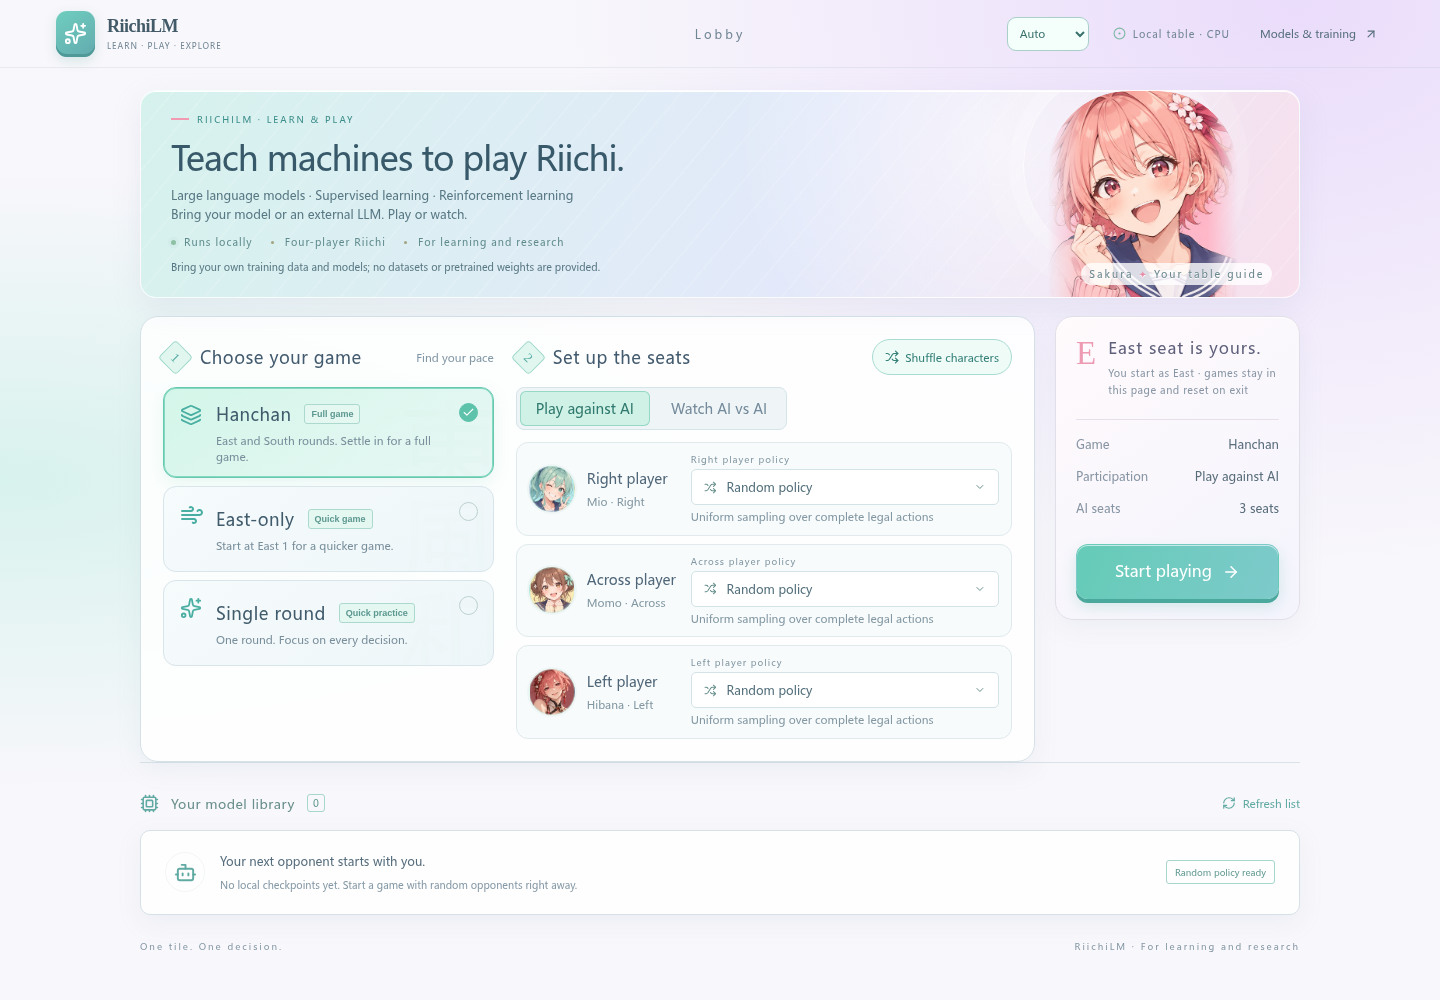
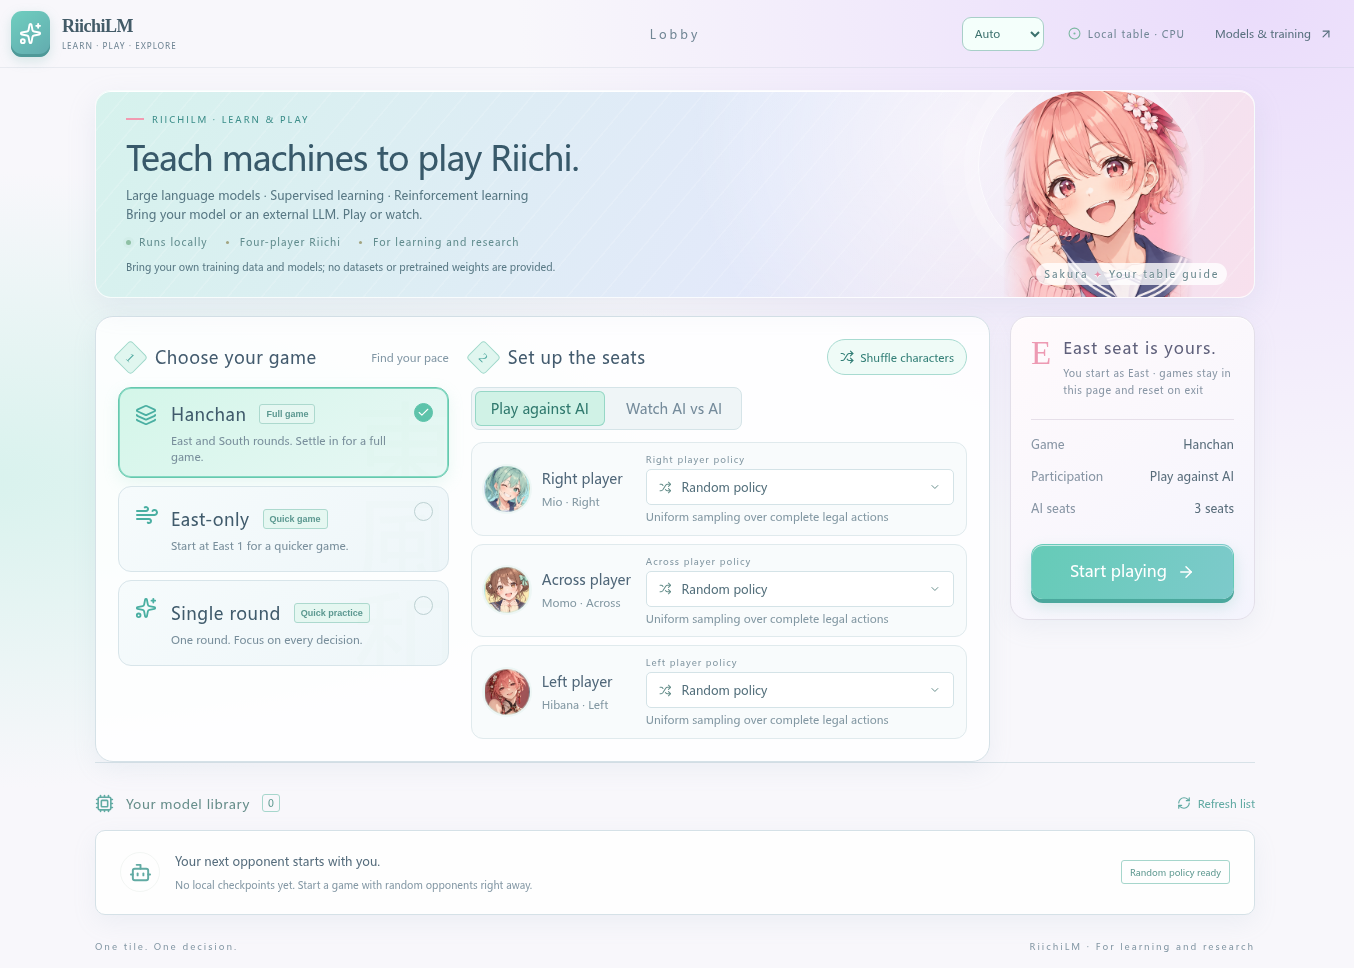
Sync reviewed RiichiLM research code

diff --git a/web/src/App.tsx b/web/src/App.tsx
@@ -265,9 +265,11 @@ export function App() {
           <header className="topbar">
             <a
               className="brand"
-              href="#"
-              onClick={(e) => e.preventDefault()}
-              aria-label="RiichiLM"
+              href="https://www.riichilm.top"
+              target="_blank"
+              rel="noopener noreferrer"
+              aria-label={t("RiichiLM 官网")}
+              title={t("RiichiLM 官网")}
             >
               <span className="brand-symbol" aria-hidden="true"><Sparkles size={23} /></span>
               <span>

diff --git a/web/src/messages.ts b/web/src/messages.ts
@@ -1,5 +1,6 @@
 /** English and Japanese translations; Chinese source messages are the fallback. */
 export const messages: Record<string, readonly [string, string]> = {
+  "RiichiLM 官网": ["RiichiLM official website", "RiichiLM 公式サイト"],
   "学习 · 对局 · 探索": ["LEARN · PLAY · EXPLORE", "学ぶ · 打つ · 探る"],
   "RIICHILM · 学习与对局": ["RIICHILM · LEARN & PLAY", "RIICHILM · 学習と対局"],
   "感谢对局": ["THANK YOU FOR PLAYING", "対局ありがとうございました"],

diff --git a/web/src/Setup.tsx b/web/src/Setup.tsx
@@ -361,7 +361,11 @@ export function Setup({
       </section>
       <footer className="page-footer">
         <span>{t("一张牌，一次选择。")}</span>
-        <span>RiichiLM · {t("仅供学习与研究")}</span>
+        <span>
+          <a href="https://www.riichilm.top" target="_blank" rel="noopener noreferrer" aria-label={t("RiichiLM 官网")}>
+            www.riichilm.top
+          </a> · {t("仅供学习与研究")}
+        </span>
       </footer>
     </>
   );

diff --git a/web/src/style.css b/web/src/style.css
@@ -657,6 +657,8 @@ button svg {
 }
 .page-footer {
   display: flex;
+  flex-wrap: wrap;
+  gap: 10px;
   align-items: center;
   justify-content: space-between;
   padding: 25px 0 30px;
@@ -664,6 +666,7 @@ button svg {
   color: #587a80;
   letter-spacing: 2px;
 }
+.page-footer a { color: inherit; text-underline-offset: 3px; }
 .search {
   display: flex;
   align-items: center;

diff --git a/docs/i18n/ja/README.md b/docs/i18n/ja/README.md
@@ -4,6 +4,8 @@
 
 # RiichiLM
 
+[公式サイト · www.riichilm.top](https://www.riichilm.top)
+
 **大規模言語モデルと強化学習で、機械にリーチ麻雀を教える**
 
 自分のデータで麻雀の方策を学習し、自己対戦で改良し、実際のルールで動く卓で判断を観察する。RiichiLM は、Qwen3 ベースの系列モデル、Rust ルールエンジン、強化学習、イラスト付きブラウザー対局を一つの研究コードベースにつなぎます。

diff --git a/README.md b/README.md
@@ -4,6 +4,8 @@
 
 # RiichiLM
 
+[Official website · www.riichilm.top](https://www.riichilm.top)
+
 **Teaching Machines to Play Riichi Mahjong with LLMs and RL**
 
 Build a Mahjong policy, train it on your own data, improve it through self-play, and watch its decisions at a real table. RiichiLM connects Qwen3-based sequence models, a Rust rules engine, reinforcement learning, and an illustrated browser arena in one research codebase.

diff --git a/docs/i18n/zh-CN/README.md b/docs/i18n/zh-CN/README.md
@@ -4,6 +4,8 @@
 
 # RiichiLM
 
+[官方网站 · www.riichilm.top](https://www.riichilm.top)
+
 **通过大语言模型与强化学习，让机器学打立直麻将**
 
 用自己的数据训练麻将策略，通过自我对弈改进模型，再到真实规则的牌桌上观察它的选择。RiichiLM 将 Qwen3 序列模型、Rust 规则引擎、强化学习与插画风浏览器牌桌连接在同一套研究代码中。
